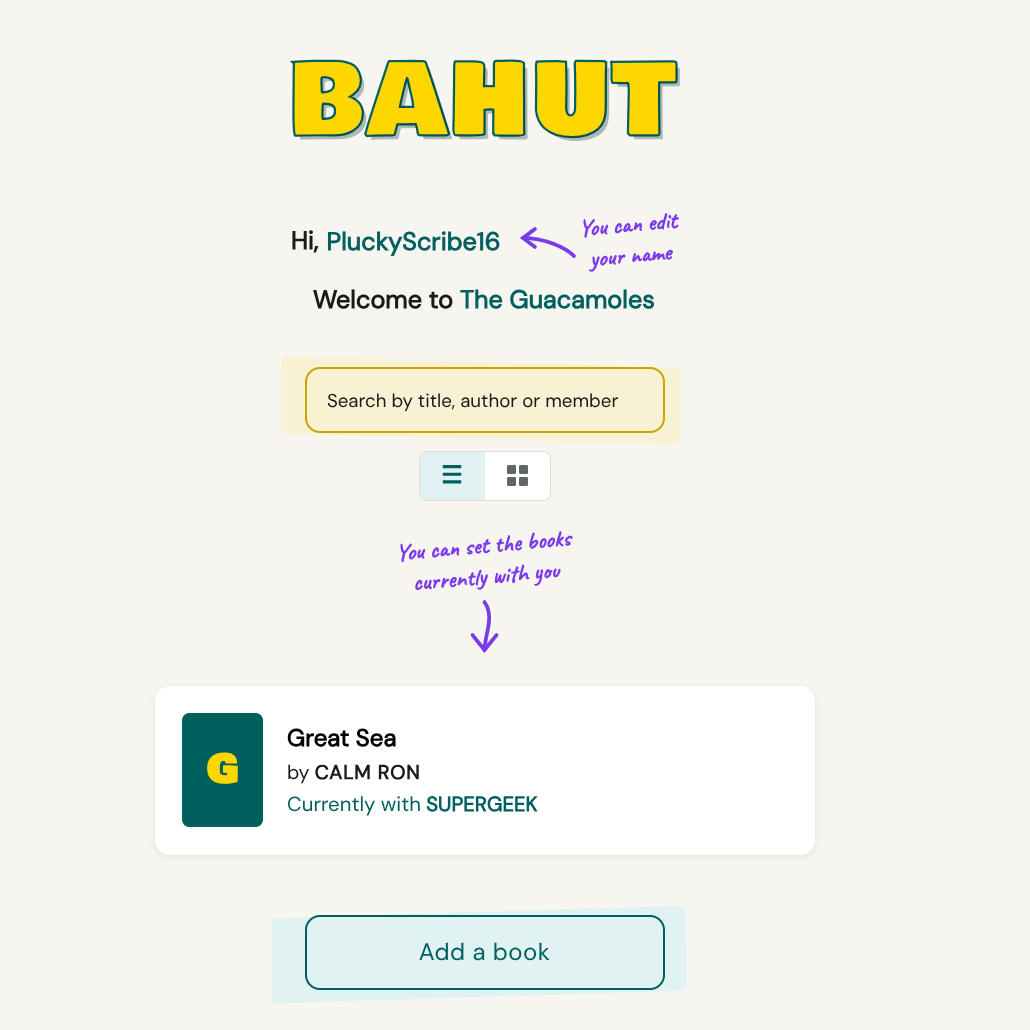
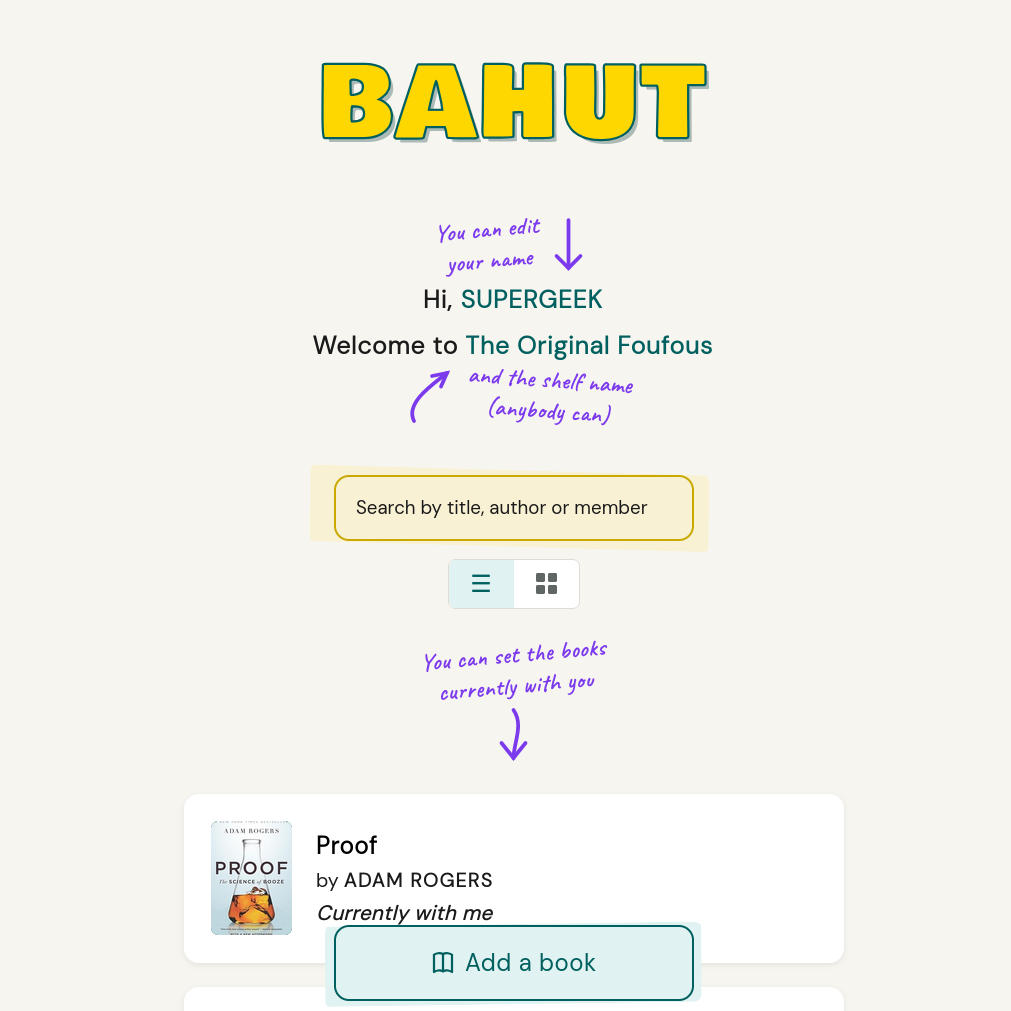
update bahut figs and description

Changed region(s): [[0.1533, 0.3373, 0.7052, 1.0], [0.276, 0.0307, 0.7052, 0.1533], [0.276, 0.2146, 0.6746, 0.3066]]

diff --git a/content/projects/bahut/index.md b/content/projects/bahut/index.md
@@ -1,12 +1,12 @@
 +++
 title = "bahut"
-date = 2026-05-05
+date = 2026-05-08
 
 [extra]
 thumbnail = "fig_01.jpg"
 +++
 
-With the experience gained from [tabletango](/projects/tabletango/), I kept the same core stack and built a book sharing app for a local book club. I wanted the onboarding to be as simple as possible with token-based authentification.
+With the experience gained from [tabletango](/projects/tabletango/), I kept the same core stack and built a book sharing app for a local book club. I wanted the onboarding to be as simple as possible with token-based authentification. Access grows as a tree of trust: any member can invite a friend into their shelf.
 
 The group shares a shelf (a library), you can add books scanning their ISBN code and follow who reads which book. You can be part of multiple shelves and create new ones, with rate limiting to keep things stable. It is deployed and in early testing at the book club.
 
@@ -17,7 +17,9 @@ The group shares a shelf (a library), you can add books scanning their ISBN code
 #r2:checked ~ .sg .slide:nth-child(2),
 #r3:checked ~ .sg .slide:nth-child(3),
 #r4:checked ~ .sg .slide:nth-child(4),
-#r5:checked ~ .sg .slide:nth-child(5) { display: block; }
+#r5:checked ~ .sg .slide:nth-child(5),
+#r6:checked ~ .sg .slide:nth-child(6),
+#r7:checked ~ .sg .slide:nth-child(7) { display: block; }
 .slide-wrap {
   position: relative;
   width: 70%; min-width: 300px;
@@ -54,47 +56,65 @@ The group shares a shelf (a library), you can add books scanning their ISBN code
 <input class="sg-r" type="radio" name="sg" id="r3">
 <input class="sg-r" type="radio" name="sg" id="r4">
 <input class="sg-r" type="radio" name="sg" id="r5">
+<input class="sg-r" type="radio" name="sg" id="r6">
+<input class="sg-r" type="radio" name="sg" id="r7">
 
 <div class="sg">
   <div class="slide">
     <div class="slide-wrap">
-      <img src="fig_01.jpg" alt="figure 1 of 5">
-      <label class="slide-arr l" for="r5">&larr;</label>
+      <img src="fig_01.jpg" alt="figure 1 of 7">
+      <label class="slide-arr l" for="r7">&larr;</label>
       <label class="slide-arr r" for="r2">&rarr;</label>
     </div>
-    <p class="secondary small slide-num">1 / 5</p>
+    <p class="secondary small slide-num">1 / 7</p>
   </div>
   <div class="slide">
     <div class="slide-wrap">
-      <img src="fig_02.jpg" alt="figure 2 of 5">
+      <img src="fig_02.jpg" alt="figure 2 of 7">
       <label class="slide-arr l" for="r1">&larr;</label>
       <label class="slide-arr r" for="r3">&rarr;</label>
     </div>
-    <p class="secondary small slide-num">2 / 5</p>
+    <p class="secondary small slide-num">2 / 7</p>
   </div>
   <div class="slide">
     <div class="slide-wrap">
-      <img src="fig_03.jpg" alt="figure 3 of 5">
+      <img src="fig_03.jpg" alt="figure 3 of 7">
       <label class="slide-arr l" for="r2">&larr;</label>
       <label class="slide-arr r" for="r4">&rarr;</label>
     </div>
-    <p class="secondary small slide-num">3 / 5</p>
+    <p class="secondary small slide-num">3 / 7</p>
   </div>
   <div class="slide">
     <div class="slide-wrap">
-      <img src="fig_04.jpg" alt="figure 4 of 5">
+      <img src="fig_04.jpg" alt="figure 4 of 7">
       <label class="slide-arr l" for="r3">&larr;</label>
       <label class="slide-arr r" for="r5">&rarr;</label>
     </div>
-    <p class="secondary small slide-num">4 / 5</p>
+    <p class="secondary small slide-num">4 / 7</p>
   </div>
   <div class="slide">
     <div class="slide-wrap">
-      <img src="fig_05.jpg" alt="figure 5 of 5">
+      <img src="fig_05.jpg" alt="figure 5 of 7">
       <label class="slide-arr l" for="r4">&larr;</label>
+      <label class="slide-arr r" for="r6">&rarr;</label>
+    </div>
+    <p class="secondary small slide-num">5 / 7</p>
+  </div>
+  <div class="slide">
+    <div class="slide-wrap">
+      <img src="fig_06.jpg" alt="figure 6 of 7">
+      <label class="slide-arr l" for="r5">&larr;</label>
+      <label class="slide-arr r" for="r7">&rarr;</label>
+    </div>
+    <p class="secondary small slide-num">6 / 7</p>
+  </div>
+  <div class="slide">
+    <div class="slide-wrap">
+      <img src="fig_07.jpg" alt="figure 7 of 7">
+      <label class="slide-arr l" for="r6">&larr;</label>
       <label class="slide-arr r" for="r1">&rarr;</label>
     </div>
-    <p class="secondary small slide-num">5 / 5</p>
+    <p class="secondary small slide-num">7 / 7</p>
   </div>
 </div>
 
@@ -121,6 +141,8 @@ The group shares a shelf (a library), you can add books scanning their ISBN code
   - PostgreSQL
   - Hetzner VPS configured with NixOS and [disko](https://github.com/nix-community/disko)
   - [Caddy](https://caddyserver.com) as reverse proxy with automatic HTTPS
+  - Rust binary built declaratively with [Crane](https://github.com/ipetkov/crane) + Nix flakes
+  - Secret management with [sops-nix](https://github.com/Mic92/sops-nix)
   - Remote deployments over SSH with [deploy-rs](https://github.com/serokell/deploy-rs)
 
 **Llm collegue**
